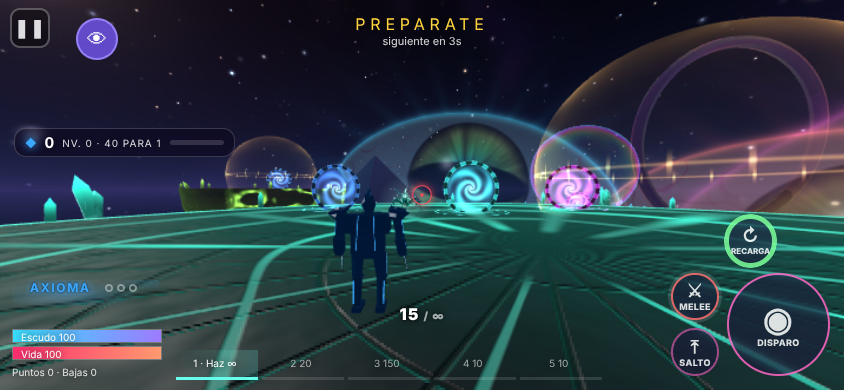
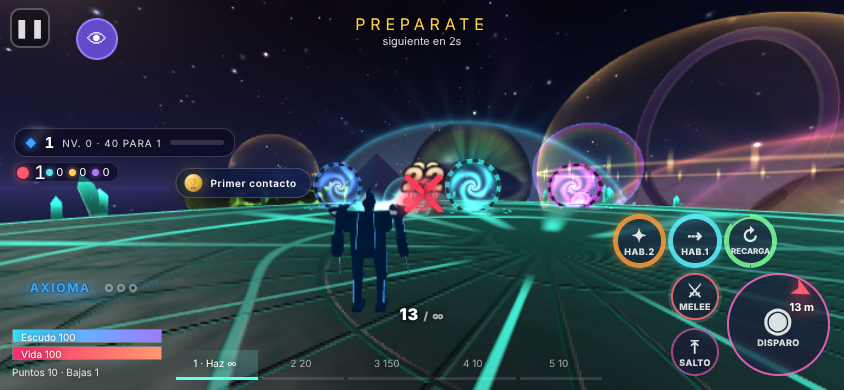
Melee con más movimientos (estocada en carrera, giro tras combo, bloqueo al cargar); las últimas criaturas vienen a buscarte; radar de flechas hacia criaturas fuera de pantalla
Claude-Session: https://claude.ai/code/session_01FQkQoAoCaRgGqcom58Ns3g

diff --git a/src/sim/huespedes.js b/src/sim/huespedes.js
@@ -95,12 +95,18 @@ function strike(g, p, M, heavy) {
   let dmg = def.dmg * evoMeleeMul(p) * (M.aff ? 1.15 : 1) * (hasC(p, 'tentaculo') ? 1.1 : 1), range = def.range * (meta ? 1.35 : 1) * (hasC(p, 'tentaculo') ? 1.2 : 1), arc = def.arc;
   const fused = (p.evo || 0) >= 1 && M.special, strong = hasPath(p, 'simbiosis') ? 1.5 : 1;
   let kind = heavy ? 'heavy' : 'light';
-  if (!heavy) { p.cmb = p.cmb >= 3 ? 1 : p.cmb + 1; p.cmbT = COMBO_WINDOW; if (p.cmb === 3) { dmg *= 1.5; } } else p.cmb = 0;
+  const prevCmb = p.cmb, speed = len(sub(p.vel, mul(p.up, dot(p.vel, p.up))));
+  if (!heavy) { p.cmb = p.cmb >= 3 ? 1 : p.cmb + 1; p.cmbT = COMBO_WINDOW; p.lastCmbN = p.cmb; p.lastLightT = g.time; if (p.cmb === 3) { dmg *= 1.5; } } else { p.cmb = 0; }
+  // MOVIMIENTOS EXTRA: corriendo + golpe = estocada en carrera; 2 golpes + pesado = GIRO que pega a todo alrededor
+  let lunge = false, spin = false;
+  if (!heavy && speed > 12 && p.grounded) { lunge = true; kind = 'lunge'; dmg *= 1.3; range += 2; p.ext = madd(p.ext, flat(p), 26); }
+  if (heavy && (prevCmb >= 2 || ((p.lastCmbN || 0) >= 2 && g.time - (p.lastLightT || -9) < 1.8))) { spin = true; kind = 'spin'; dmg *= 1.2; range += 1; }
+  if (heavy) p.lastCmbN = 0;
   if (air) { kind = 'air'; p.slam = 3; p.vel = madd(p.vel, p.up, -42); dmg *= 1.2; }
   p.meleeCd = def.cd * (over ? 0.6 : 1);
   const o = g.eyePos(p), d = g.aimDir(p), dir0 = norm(d);
   let hits = 0;
-  const cosT = meta ? -1 : 1 - arc * (heavy ? 1.1 : 1);
+  const cosT = meta || spin ? -1 : 1 - arc * (heavy ? 1.1 : 1);
   const targets = [];
   for (const m of g.monsters) {
     if (m.dead) continue;
@@ -110,7 +116,7 @@ function strike(g, p, M, heavy) {
     targets.push([m, l]);
   }
   targets.sort((a, b) => a[1] - b[1]);
-  const maxT = heavy || meta || (fused && (M.special === 'barrido' || M.special === 'linea' || M.special === 'atraviesa')) ? 8 : 3;
+  const maxT = heavy || meta || spin || lunge || (fused && (M.special === 'barrido' || M.special === 'linea' || M.special === 'atraviesa')) ? 8 : 3;
   g.pierceNow = !!(M.light && M.light.pierce); p.inMelee = true;
   for (const [m] of targets.slice(0, maxT)) {
     // enemigos que reaccionan: el ariete bloquea de frente, el espejo esquiva, los pequeños contraatacan
@@ -275,6 +281,7 @@ function zoneTick(g, p, dt) {
 export function hostDamageIn(g, p, dmg) {
   const C = cdef(p); if (!C) return dmg;
   if (C.hp) dmg /= C.hp;
+  if (p.meleeHold > 0.12 && !p.dead) { dmg *= 0.5; if (g.time > (p.blockFx || 0)) { p.blockFx = g.time + 0.3; g.emit({ t: 'pblock', pid: p.id }); } }   // cargar el golpe pesado = BLOQUEAR (mitad de daño)
   if (hasPath(p, 'coraza')) dmg *= 0.82;
   if (hasC(p, 'placas')) dmg *= 0.88;
   if (g.time < p.guardUntil) { const ab = dmg * 0.7; dmg -= ab; for (const m of g.monsters) if (!m.dead && dist(m.pos, p.pos) < 5 + m.r) g.damageMonster(m, ab * 0.6, p, m.pos); }

diff --git a/tests/huespedes.test.js b/tests/huespedes.test.js
@@ -278,3 +278,24 @@ test('órganos como tarjetas: con esencias se ofrece un órgano entre las 3 tarj
   assert.ok(Object.values(p.ess).reduce((a, b) => a + b, 0) < Object.values(e0).reduce((a, b) => a + b, 0), 'cobró esencias');
   void apCard;
 });
+
+test('melee con más posibilidades: estocada en carrera, giro tras combo, bloqueo al cargar', () => {
+  // estocada: corriendo + golpe ligero te lanza hacia adelante
+  let { g, p } = mk('axioma'); p.vel = { x: 0, y: 0, z: -16 }; p.grounded = true; p.heading = { x: 0, y: 0, z: -1 }; const a = target(g, p, 'astilla', 4.5, 1e5); a.passive = true;
+  g.setInput(p.id, { melee: true }); g.step(1 / 60); p.vel = { x: 0, y: 0, z: -16 }; p.grounded = true; g.setInput(p.id, { melee: false }); g.step(1 / 60);
+  const evs = g.snapshot().events.filter((e) => e.t === 'melee'); assert.ok(evs.some((e) => e.kind === 'lunge'), 'estocada en carrera');
+  // giro: dos ligeros + pesado golpea también atrás
+  ({ g, p } = mk('axioma')); const f = target(g, p, 'astilla', 2.5, 1e5); f.passive = true; const back = g.spawnMonster('astilla', { x: p.pos.x - p.heading.x * 2.5, y: p.pos.y, z: p.pos.z - p.heading.z * 2.5 }); back.passive = true; back.hp = back.maxhp = 1e5;
+  tap(g, p, 'melee'); run(g, 0.4); tap(g, p, 'melee'); run(g, 0.4); g.setInput(p.id, { melee: true }); run(g, 0.6); g.setInput(p.id, { melee: false }); run(g, 0.2);
+  assert.ok(back.hp < 1e5, 'el giro pega a la criatura de atrás');
+  // bloqueo: mantener melee (cargando) reduce el daño a la mitad
+  ({ g, p } = mk('axioma')); p.hp = 100; p.shield = 0; g.setInput(p.id, { melee: true }); run(g, 0.3); g.hurtPlayer(p, 20); const blocked = 100 - p.hp;
+  const { g: g2, p: q } = mk('axioma'); q.hp = 100; q.shield = 0; g2.hurtPlayer(q, 20); assert.ok(blocked < (100 - q.hp) * 0.6, `bloqueo ${blocked} vs ${100 - q.hp}`);
+});
+
+test('las últimas criaturas vienen a buscarte (no hay que cazarlas por el mapa)', () => {
+  const g = new Game({ mapId: 'm1', seed: 5 }); const p = g.addPlayer('t'); p.hp = 1e6; g.phase = 'wave'; g.queue = []; g.omens = []; g.phaseT = 0;
+  let far = null; for (let i = 0; i < 40 && !far; i++) { const q = g.map.spawnGround(g.rng, { x: p.pos.x + 60 * Math.cos(i), y: p.pos.y, z: p.pos.z + 60 * Math.sin(i) }); if (dist(q, p.pos) > 40) far = q; }
+  const m = g.spawnMonster('geoda', far); m.cd = 1e9; m.def = { ...m.def, speed: 0 }; const d0 = dist(m.pos, p.pos); assert.ok(d0 > 40, `empieza lejos (${d0.toFixed(0)})`);
+  run(g, 9); assert.ok(dist(m.pos, p.pos) < 60, `la rezagada se acercó (${dist(m.pos, p.pos).toFixed(0)})`);
+});

diff --git a/src/client/radar.js b/src/client/radar.js
@@ -1,0 +1,29 @@
+// Flechas en el borde de la pantalla hacia las criaturas que no se ven (las 6 más cercanas) + aviso de las últimas.
+// Así nunca hay que salir a «buscar bichos» por un mapa difícil de entender.
+import * as THREE from 'three';
+const N = 6;
+export function createRadar(host) {
+  const root = document.createElement('div'); root.id = 'radar'; host.appendChild(root);
+  const arrows = []; for (let i = 0; i < N; i++) { const a = document.createElement('div'); a.className = 'rd-arrow'; a.innerHTML = '<i>➤</i><span></span>'; root.appendChild(a); arrows.push(a); }
+  const v = new THREE.Vector3(), cam = new THREE.Vector3();
+  return {
+    update(state, me, camera) {
+      if (!state || !me || me.dead || !camera) { for (const a of arrows) a.style.display = 'none'; return; }
+      camera.getWorldPosition(cam);
+      const list = state.monsters.filter((m) => !m.c).map((m) => ({ m, d: Math.hypot(m.p[0] - me.pos[0], m.p[1] - me.pos[1], m.p[2] - me.pos[2]) })).sort((a, b) => a.d - b.d);
+      let k = 0; const W = innerWidth, H = innerHeight, few = list.length <= 4;
+      for (const { m, d } of list) {
+        if (k >= N) break;
+        v.set(m.p[0], m.p[1], m.p[2]).project(camera);
+        const behind = v.z > 1, on = !behind && Math.abs(v.x) < 0.92 && Math.abs(v.y) < 0.88;
+        if (on && !few) continue;   // las que se ven no necesitan flecha (salvo las últimas: siempre marcadas)
+        let x = v.x, y = v.y; if (behind) { x = -x; y = -y; }
+        if (on) { const a = arrows[k++]; a.style.display = ''; a.classList.add('in'); a.style.transform = `translate(${(x * 0.5 + 0.5) * W}px, ${(-y * 0.5 + 0.5) * H - 34}px)`; a.querySelector('i').style.transform = 'rotate(90deg)'; a.querySelector('span').textContent = `${Math.round(d)} m`; continue; }
+        const ang = Math.atan2(y, x), s = Math.min(0.9 / Math.abs(Math.cos(ang) || 1e-6), 0.82 / Math.abs(Math.sin(ang) || 1e-6));
+        const px = (Math.cos(ang) * s * 0.5 + 0.5) * W, py = (-Math.sin(ang) * s * 0.5 + 0.5) * H;
+        const a = arrows[k++]; a.style.display = ''; a.classList.remove('in'); a.style.transform = `translate(${px}px, ${py}px)`; a.querySelector('i').style.transform = `rotate(${-ang}rad)`; a.querySelector('span').textContent = `${Math.round(d)} m`;
+      }
+      for (; k < N; k++) arrows[k].style.display = 'none';
+    },
+  };
+}

diff --git a/src/client/main.js b/src/client/main.js
@@ -8,6 +8,7 @@ import { createCombatHud } from './hud-combat.js';
 import { createHuespedHud } from './hud-huesped.js';
 import { createEvoHud, EVO_KEY } from './hud-evolucion.js';
 import { createEvoChoice } from './evo-choice.js';
+import { createRadar } from './radar.js';
 import { createEvoMenu } from './evo-menu.js';
 import { ESSENCE_OF, WEAPON_ORGANS, CHAMP_ORGANS } from '../sim/data.js';
 import * as Perfil from './perfil.js';
@@ -490,6 +491,7 @@ function hudDirector(state, me) {
   huespedHud.update(me, !!(session && session.touch), !(session && session.intro));
   if (!evoHud) { try { evoHud = createEvoHud($('hud')); } catch (err) { console.warn('HUD de evolución no disponible', err.message); evoHud = { update() {}, celebrate() {}, held() { return false; } }; } }
   if (session) session.lastMe = me;
+  try { if (!window.__radar) window.__radar = createRadar(document.body); window.__radar.update(session && !session.intro ? state : null, me, renderer.camera); } catch (err) { /* el radar nunca debe romper el HUD */ }
   evoHud.update(me, !!(session && session.touch), !(session && session.intro));
   if (session && session.touch && me) { // botones contextuales: sólo aparecen cuando sirven
     const near = (p, r) => Math.hypot(p[0] - me.pos[0], p[1] - me.pos[1], p[2] - me.pos[2]) < r;

diff --git a/src/sim/game.js b/src/sim/game.js
@@ -164,9 +164,9 @@ export class Game {
     const left = this.monsters.filter((m) => !m.dead && !m.def.boss);
     if (!this.queue.length && !this.omens.length && left.length && left.length === this.monsters.filter((m) => !m.dead).length) {
       this.straggleT = (this.straggleT || 0) + dt;
-      if (this.straggleT > 40) {
+      if (this.straggleT > (left.length <= 4 ? 6 : 25)) {   // las últimas criaturas vienen a buscarte: nunca hay que salir a cazarlas por el mapa
         this.straggleT = 0; const ref = this.alivePlayers()[0];
-        if (ref) for (const m of left) if (dist(m.pos, ref.pos) > 45) { m.pos = m.def.fly ? this.map.spawnAir(this.rng, ref.pos, ref.up) : this.map.spawnGround(this.rng, ref.pos); m.vel = v3(); this.emit({ t: 'blink', p: a3(m.pos) }); }
+        if (ref) for (const m of left) if (dist(m.pos, ref.pos) > 28) { m.pos = m.def.fly ? this.map.spawnAir(this.rng, ref.pos, ref.up) : this.map.spawnGround(this.rng, ref.pos); m.vel = v3(); this.emit({ t: 'blink', p: a3(m.pos) }); }
       }
     } else this.straggleT = 0;
     if (!this.queue.length && !this.omens.length && !this.monsters.some((m) => !m.dead) && !(this.objective && this.objective.state === 'active')) {

diff --git a/public/style.css b/public/style.css
@@ -385,3 +385,10 @@ body.cards-open #touch { pointer-events: none; } body.cards-open #touch .tc-btn,
 #evochoice .ec-d { font-size: clamp(11px, 2.2vh, 15px); line-height: 1.3; text-align: center; }
 #evochoice .ec-v { font-size: clamp(10px, 2vh, 13px); color: #9ff7ff; font-style: italic; text-align: center; }
 #evochoice .ec-cancel { align-self: center; padding: 8px 22px; border-radius: 999px; border: 1px solid rgba(255,255,255,.4); background: rgba(255,255,255,.08); color: #fff; font: inherit; }
+
+/* Radar: flechas hacia criaturas fuera de pantalla */
+#radar { position: fixed; inset: 0; pointer-events: none; z-index: 5; }
+#radar .rd-arrow { position: absolute; left: 0; top: 0; margin: -16px 0 0 -16px; width: 32px; text-align: center; color: #ff5a6e; filter: drop-shadow(0 0 6px rgba(255,60,90,.9)); font: 700 11px/1 system-ui, sans-serif; }
+#radar .rd-arrow i { display: block; font-style: normal; font-size: 24px; line-height: 32px; }
+#radar .rd-arrow span { display: block; color: #fff; text-shadow: 0 0 4px #000; margin-top: -4px; }
+#radar .rd-arrow.in i { font-size: 18px; }

diff --git a/src/client/hostfx-melee.js b/src/client/hostfx-melee.js
@@ -211,6 +211,7 @@ export function createHostMelee(renderer, D) {
     if (kind === 'heavy' || kind === 'exec') return C.h; if (kind === 'air') return AIR; return C.l[idx % 3];
   }
   function start(kind, o = {}) {
+    if (kind === 'spin') kind = 'heavy'; if (kind === 'lunge') kind = 'light';   // giro y estocada reutilizan las animaciones de golpe pesado y ligero
     const S = built, now = T; const isHeavy = kind === 'heavy' || kind === 'exec' || kind === 'air';
     if (!isHeavy) { comboIdx = comboT < 1.0 ? (comboIdx + 1) % 3 : 0; } else comboIdx = 0; comboT = 0; if (kind === 'exec') kind = 'heavy';
     const kfs = kfsFor(kind, comboIdx), dur = S.dur[kind === 'light' ? 'light' : kind === 'air' ? 'air' : 'heavy'] * (o.fast ? 0.8 : 1);
